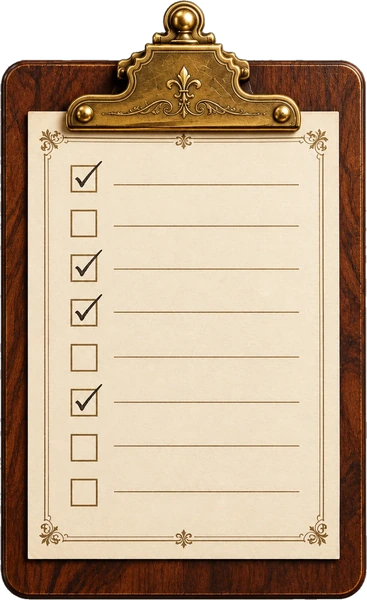
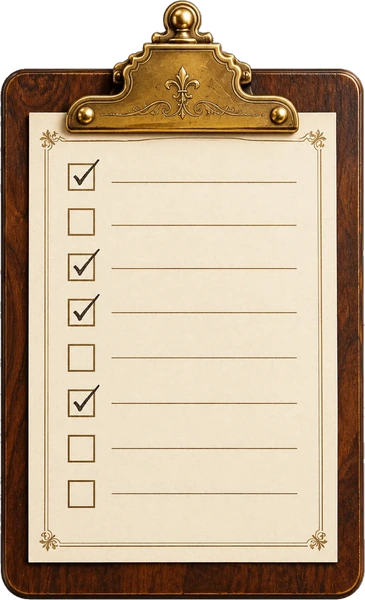
Zustimmung zu AGB und Datenschutz, Datenschutz unten in den Einstellungen, Klemmbretter im Design des jeweiligen Bildes, neuer Regenbogen-Kristall, eWolfe GbR als Betreiber (2.0.0)

diff --git a/index.html b/index.html
@@ -745,6 +745,13 @@ html.theme-biz .habit-title{ color:#ab8b54 !important; } html.theme-retreat .hab
 .shelf-comp .lib-clipboard{ right:auto; left:14%; top:auto; bottom:0; height:84%; margin:0; transform:rotate(-5deg); transform-origin:50% 100%; }
 .lib-clipboard{ background:none; border:none; padding:0; cursor:pointer; filter:drop-shadow(0 6px 8px rgba(0,0,0,0.35)); }
 .lib-clipboard svg, .lib-clipboard img{ height:100%; width:auto; display:block; }
+/* 29.10.2026: the open board is the design's own clipboard picture (border-image: clip and wood of the picture, the paper is ours) */
+.habit-modal, #tb-habit-host{ container-type:inline-size; }
+html:not(.theme-biz) .habit-board.habit-board{ border-style:solid; border-width:38cqw 8cqw 9cqw 10cqw; border-image:url(img/mw2/clipboard.webp) 168 53 45 70 fill stretch; background:none !important; padding:0 !important; box-shadow:none !important; border-radius:0 !important; filter:drop-shadow(0 14px 22px rgba(0,0,0,0.45)); }
+html.theme-biz .habit-board.habit-board{ border-style:solid; border-width:38cqw 7cqw 9.5cqw 7cqw; border-image:url(img/rl2/clipboard.webp) 140 27 35 25 fill stretch; background:none !important; padding:0 !important; box-shadow:none !important; border-radius:0 !important; filter:drop-shadow(0 14px 22px rgba(0,0,0,0.45)); }
+html.theme-retreat .habit-board.habit-board{ border-image-source:url(img/rt2/clipboard.webp); } /* the lady's clipboard: like the gentleman's, with an ornament at the bottom */
+.habit-clip{ display:none !important; }
+.habit-board .habit-paper{ border-radius:2px; box-shadow:none !important; }
 /* 29.10.2026: library – switch diary · habits on top, the other tool peeks out from behind */
 #tb-title{ display:flex; justify-content:center; }
 .tb-switch{ display:inline-flex; gap:4px; padding:3px; border-radius:999px; background:rgba(0,0,0,0.25); border:1px solid var(--ew-line); }
@@ -752,13 +759,15 @@ html.theme-biz .habit-title{ color:#ab8b54 !important; } html.theme-retreat .hab
 .tb-switch button.on{ background:var(--gold); color:#1a1405; opacity:1; }
 html.theme-retreat .tb-switch{ background:rgba(255,255,255,0.6); } html.theme-retreat .tb-switch button.on{ color:#fff; background:var(--rt-burgundy, #7A0B25); }
 html.theme-biz:not(.theme-retreat) .tb-switch button.on{ color:#0c1226; }
-.tb-stack{ position:relative; z-index:0; display:flex; margin:auto; } /* own stacking: the peeking tool lies behind the front one but stays tappable */
+.tb-stack{ position:relative; z-index:0; display:flex; margin:auto; }
+.tb-body-cover .tb-cover-wrap > .tb-stack:not(.tb-stack-habits){ margin:auto auto 0; }
+.tb-body-cover .tb-stack:not(.tb-stack-habits) .tb-cover{ width:min(100cqw, 60cqh) !important; } /* room above the book for the clipboard behind it */ /* own stacking: the peeking tool lies behind the front one but stays tappable */
 .tb-peek{ position:absolute; z-index:-1; border:none; padding:0; background:none; cursor:pointer; filter:drop-shadow(0 8px 14px rgba(0,0,0,0.4)); }
-.tb-peek-clip{ width:44%; top:-11%; right:4%; transform:rotate(8deg); transform-origin:50% 100%; }
+.tb-peek-clip{ width:80%; left:10%; top:0; transform:translateY(-27%); }
 .tb-peek-clip img, .tb-peek-clip svg{ width:100%; height:auto; display:block; }
-.tb-peek-book{ width:40%; aspect-ratio:3/4; top:-12%; left:4%; transform:rotate(-6deg); background-size:100% 100%; border-radius:8px; }
+.tb-peek-book{ width:80%; aspect-ratio:3/4; left:10%; top:0; transform:translateY(-16%); background-size:100% 100%; border-radius:8px; }
 .tb-habits-wrap{ overflow-y:auto; }
-.tb-stack-habits{ width:min(620px, 100%); margin:16% auto auto; }
+.tb-stack-habits{ width:min(620px, 100%); margin:22% auto auto; }
 #tb-habit-host{ width:100%; }
 #tb-habit-host .habit-board{ width:100%; }
 .habit-name-td{ display:flex; align-items:center; gap:2px; }
@@ -776,6 +785,11 @@ html.theme-biz:not(.theme-retreat) .habit-paper{ background:#f4ead2; }
 html.theme-retreat .habit-board{ background:linear-gradient(135deg, #e0417a, #D62C68 50%, #a81c4f); border:2px solid #c9a463; }
 html.theme-retreat .habit-clip{ background:linear-gradient(180deg, #f7e3a8, #c9a463 55%, #9c7a3f); }
 html.theme-retreat .habit-paper{ background:#fdf7ec; box-shadow:inset 0 0 0 2px #1B4D2A33; }
+#privacy-modal{ z-index:650; } /* also above the sign-in and dialogs (the links in the consent) */
+.consent-row{ display:flex; gap:10px; align-items:flex-start; margin:6px 0 10px; font-size:var(--fs-text); line-height:1.4; text-align:left; cursor:pointer; }
+.consent-row input{ width:20px; height:20px; flex:none; margin-top:2px; accent-color:var(--gold); }
+.consent-link{ display:inline !important; padding:0 !important; text-decoration:underline; }
+.consent-links{ font-size:var(--fs-text); line-height:1.5; }
 .tb-conflict{ position:absolute; left:8px; right:8px; top:8px; z-index:6; background:#fff4d6; color:#3a2a08; border:1px solid #d9a93a; border-radius:10px; padding:8px 10px; font:14px/1.4 Inter, -apple-system, sans-serif; box-shadow:0 4px 14px rgba(0,0,0,0.18); }
 .tb-conflict-btns{ display:flex; gap:8px; margin-top:6px; }
 .tb-conflict-btns .ghost-btn{ flex:1; padding:6px 8px; color:#3a2a08 !important; border-color:#b88a2a !important; background:#fff !important; font-size:13px; }
@@ -1801,10 +1815,6 @@ html.theme-retreat .lib-arrow{ background:rgba(248,241,229,0.92); color:var(--rt
       <div id="settings-sync"></div>
     </div>
     <div class="settings-section">
-      <div class="settings-head" id="t-set-privacy">Datenschutz</div>
-      <div id="settings-privacy"></div>
-    </div>
-    <div class="settings-section">
       <div class="settings-head" id="t-set-design">Design</div>
       <div class="seg design-seg" id="design-seg"></div>
       <p class="settings-note" id="t-design-hint"></p>
@@ -1828,6 +1838,10 @@ html.theme-retreat .lib-arrow{ background:rgba(248,241,229,0.92); color:var(--rt
       <div class="settings-head" id="t-set-backup">Backup</div>
       <button class="ghost-btn settings-row" id="export-btn">⬇ <span id="t-export-label">Backup herunterladen</span></button>
       <label class="ghost-btn settings-row" id="import-btn" title="Backup wiederherstellen" style="cursor:pointer;position:relative;overflow:hidden;">⬆ <span id="t-import-label">Backup wiederherstellen</span><input type="file" id="import-file-input" style="position:absolute;inset:0;width:100%;height:100%;opacity:0;cursor:pointer;"></label>
+    </div>
+    <div class="settings-section">
+      <div class="settings-head" id="t-set-privacy">Datenschutz</div>
+      <div id="settings-privacy"></div>
     </div>
   </div>
 </div>
@@ -2202,7 +2216,7 @@ html.theme-retreat .lib-arrow{ background:rgba(248,241,229,0.92); color:var(--rt
 
 <script>
 /* Bump on every published update, so it's visible at a glance whether the newest version is loaded. */
-const APP_VERSION = '1.99.9';
+const APP_VERSION = '2.0.0';
 /* Design (since 1.80.0, see the small script in <head>): in "Business" (BIZ) the gold paper icons are swapped for plain line
    icons (img/icons-rl/*.svg) wherever they appear – also in everything drawn later – so the rest of the code stays as it is. */
 // A Lady's Conservatory (1.84.0, named so since 1.86.1; key 'retreat' and RETREAT stay): light, cream and forest green; until its own pictures come it uses those of A Gentleman's Study (with the
@@ -4781,6 +4795,8 @@ Object.assign(I18N.de, { // 1.99.0
   tbConflictText:'Zweite Fassung dieser Seite (geändert am {date} auf einem anderen Gerät). Die neuere Fassung steht eine Seite davor.',
   tbConflictKeep:'Behalten', tbConflictDrop:'Löschen',
   broochMoveHint:'Tipp: Du kannst die Brosche am Kleid mit dem Finger verschieben.',
+  consentLabel:'Ich stimme den {terms} zu und habe die {privacy} gelesen.', consentNeeded:'Bitte stimme den AGB und der Datenschutzerklärung zu.',
+  consentAsk:'Bevor es weitergeht: Bitte lies die AGB und die Datenschutzerklärung und stimme zu. Das ist nur einmal nötig.', consentAgree:'Zustimmen',
   habitStreak:'{n} Tage am Stück',
   habitPraise30:'Wunderbar! 30 Tage am Stück: „{h}“ ist jetzt eine neue Gewohnheit von dir. Mach weiter so!',
   habitPraise60:'Großartig! 60 Tage ohne Unterbrechung: „{h}“ gehört jetzt fest zu deinem Leben. Darauf kannst du richtig stolz sein!',
@@ -4805,6 +4821,8 @@ Object.assign(I18N.en, {
   tbConflictText:'Second version of this page (changed on {date} on another device). The newer version is one page before.',
   tbConflictKeep:'Keep', tbConflictDrop:'Delete',
   broochMoveHint:'Tip: you can move the brooch on the dress with your finger.',
+  consentLabel:'I agree to the {terms} and have read the {privacy}.', consentNeeded:'Please agree to the terms of use and the privacy statement.',
+  consentAsk:'Before you go on: please read the terms of use and the privacy statement and agree. This is needed only once.', consentAgree:'Agree',
   habitStreak:'{n} days in a row',
   habitPraise30:'Wonderful! 30 days in a row: “{h}” is now a new habit of yours. Keep it up!',
   habitPraise60:'Great! 60 days without a break: “{h}” is now a firm part of your life. You can be really proud of that!',
@@ -6902,7 +6920,7 @@ function habitPageHtml(page, idx){
 }
 // a drawn clipboard for the library (until pictures in the style of each design arrive)
 function clipboardSvg(){
-  const board = RETREAT ? ['#e9dcc6', '#cdb48e'] : BIZ ? ['#7a4a26', '#4f2f16'] : ['#9a6a35', '#5e3b1b'];
+  const board = RETREAT ? ['#e8457f', '#a81c4f'] : BIZ ? ['#7a4a26', '#4f2f16'] : ['#9a6a35', '#5e3b1b']; // Lady: raspberry linen with gold, like her open board
   return `<svg viewBox="0 0 120 160" xmlns="http://www.w3.org/2000/svg" aria-hidden="true"><defs><linearGradient id="cbB" x1="0" y1="0" x2="1" y2="1"><stop offset="0" stop-color="${board[0]}"/><stop offset="1" stop-color="${board[1]}"/></linearGradient><linearGradient id="cbC" x1="0" y1="0" x2="0" y2="1"><stop offset="0" stop-color="#f1dc9a"/><stop offset=".55" stop-color="#c9a463"/><stop offset="1" stop-color="#9c7a3f"/></linearGradient></defs>`
     + `<rect x="6" y="10" width="108" height="146" rx="10" fill="url(#cbB)"/><rect x="16" y="24" width="88" height="122" rx="3" fill="#fbf6ea"/>`
     + [0, 1, 2, 3, 4].map(i=>`<rect x="24" y="${42 + i * 19}" width="11" height="11" rx="2.5" fill="#fff" stroke="#b7a684" stroke-width="1.4"/>${i < 3 ? `<path d="M26 ${48 + i * 19}l3 3 6-7" fill="none" stroke="#2f8f62" stroke-width="2.4" stroke-linecap="round" stroke-linejoin="round"/>` : ''}<line x1="42" y1="${48 + i * 19}" x2="${86 - (i % 2) * 14}" y2="${48 + i * 19}" stroke="#c8bba0" stroke-width="2.2" stroke-linecap="round"/>`).join('')
@@ -7441,7 +7459,7 @@ function tbRenderLibrary(){
   // 28.10.2026 (wish of the user): the clipboard (habit tracker) leans in the middle compartment of the book part – or the next free one below
   const clipRow = (()=>{ const mid = Math.floor(SHELF_ROWS.length / 2); for(let i = mid; i < SHELF_ROWS.length; i++) if(!(narrowRows[i] || []).length) return i; return -1; })();
   // pictures of the user for A Mystery World and A Gentleman's Study (28.10.2026); A Lady's Conservatory keeps the drawn one until hers comes
-  const clipImg = RETREAT ? '' : BIZ ? 'rl2/clipboard' : 'mw2/clipboard';
+  const clipImg = RETREAT ? 'rt2/clipboard' : BIZ ? 'rl2/clipboard' : 'mw2/clipboard';
   const clipHtml = `<button class="lib-clipboard" onclick="habitOpen()" title="${escapeHtml(d.habitTitle)}" aria-label="${escapeHtml(d.habitTitle)}">${clipImg ? `<img src="img/${clipImg}.webp" alt="">` : clipboardSvg()}</button>`;
   const narrowHtml = NAR ? `<div class="shelf-img shelf-narrow" style="background-image:url(img/${NS.img}.webp);aspect-ratio:${NS.aspect.toFixed(4)}">${SHELF_ROWS.map(([y0, y1], i)=>
       `<div class="shelf-comp shelf-comp-books" style="left:${NS.x[0]}%;width:${NS.x[1] - NS.x[0]}%;top:${y0}%;height:${y1 - y0}%">${(narrowRows[i] || []).map(bookHtml).join('')}${i === clipRow ? clipHtml : ''}</div>`).join('')}${NS.fronts ? `<div class="shelf-fronts" aria-hidden="true" style="background-image:url(img/${NS.fronts}.webp)"></div>` : ''}${NS.plant ? `<img class="shelf-plant" src="img/${NS.plant.img}.webp" alt="" style="width:${NS.plant.w}%;left:${NS.plant.over - NS.plant.w}%">` : ''}</div>` : '';
@@ -7547,7 +7565,7 @@ function trophyDefs(){
     n=>L(n + '-mal Stille Meditation – die Stille klingt in dir nach.', 'Silent meditation ' + n + ' times – the stillness resonates in you.'));
   // days in a row: a crystal that grows
   const streakMax = Object.keys(ev.streakAt).length ? Math.max(...Object.keys(ev.streakAt).map(Number)) : 0;
-  [3, 5, 7, 14, 30, 100].forEach((n, i)=>out.push({ id:'streak' + n, group:'streak', stage:i, kind:'img', img:'crystal-n-' + Math.min(i + 1, 5), scale:0.55 + i * 0.08, aspect:[0.527, 0.648, 0.663, 0.622, 0.647, 0.647][i], need:1, needShow:n,
+  [3, 5, 7, 14, 30, 100].forEach((n, i)=>out.push({ id:'streak' + n, group:'streak', stage:i, kind:'img', img:['crystal-n-1', 'crystal-n-2b', 'crystal-n-2', 'crystal-n-3', 'crystal-n-4', 'crystal-n-5'][i], scale:0.55 + i * 0.08, aspect:[0.527, 0.613, 0.648, 0.663, 0.622, 0.647][i], // 29.10.2026: the new one with two points is stage 2, the full druse comes last need:1, needShow:n,
     list:ev.streakAt[n] ? [ev.streakAt[n]] : [], have:()=>Math.min(n, streakMax),
     title:L(n + ' Tage in Folge', n + ' days in a row'), desc:L('Du hast an ' + n + ' Tagen hintereinander geübt.', 'You practised on ' + n + ' days in a row.') }));
   // 29.10.2026: habits – a red crystal that grows when one habit is ticked 30, 60 and 90 days in a row (the two smaller pictures
@@ -7988,7 +8006,7 @@ function tbRenderCover(){
 // the cover can be designed while a diary is new (until it is opened for the first time); afterwards only in the library
 /* 29.10.2026 (wish of the user): the diary page is now called library; on top a switch diary · habits. Closed, the other tool
    always peeks out a little from behind: the clipboard behind the book cover, the book behind the clipboard. */
-function clipPeekHtml(){ const im = RETREAT ? '' : BIZ ? 'rl2/clipboard' : 'mw2/clipboard'; return im ? `<img src="img/${im}.webp" alt="">` : clipboardSvg(); }
+function clipPeekHtml(){ const im = RETREAT ? 'rt2/clipboard' : BIZ ? 'rl2/clipboard' : 'mw2/clipboard'; return im ? `<img src="img/${im}.webp" alt="">` : clipboardSvg(); }
 function tbRenderHabits(){
   const d = t(), diary = tbEnsureYear(tbYear);
   return `<div class="tb-cover-wrap tb-habits-wrap"><div class="tb-stack tb-stack-habits">
@@ -9179,7 +9197,7 @@ de:`<p class="privacy-draft">Entwurf – vor dem öffentlichen Start rechtlich p
 <li>Die Server stehen in Frankfurt am Main (EU).</li>
 </ul>
 <h3>1. Verantwortlich</h3>
-<p>[Name des Betreibers]<br>[Anschrift]<br>E-Mail: [E-Mail-Adresse]</p>
+<p>eWolfe GbR<br>[Anschrift]<br>E-Mail: [E-Mail-Adresse]</p>
 <h3>2. Welche Daten wir verarbeiten</h3>
 <ul>
 <li><strong>Konto:</strong> deine E-Mail-Adresse und dein Passwort. Das Passwort wird beim Anmeldedienst nur als sogenannter Hash gespeichert, nie im Klartext. Dazu kommen technische Angaben zur Anmeldung (Zeitpunkte, Anmelde-Token).</li>
@@ -9221,7 +9239,7 @@ en:`<p class="privacy-draft">Draft – to be checked by a lawyer before the publ
 <li>The servers are in Frankfurt am Main (EU).</li>
 </ul>
 <h3>1. Controller</h3>
-<p>[Name of the operator]<br>[Address]<br>Email: [email address]</p>
+<p>eWolfe GbR<br>[Address]<br>Email: [email address]</p>
 <h3>2. What data we process</h3>
 <ul>
 <li><strong>Account:</strong> your email address and your password. The sign-in service stores the password only as a so-called hash, never in plain text. In addition, technical sign-in details (times, sign-in tokens).</li>
@@ -9260,22 +9278,22 @@ en:`<p class="privacy-draft">Draft – to be checked by a lawyer before the publ
 const IMPRINT = {
 de:`<p class="privacy-draft">Entwurf – Angaben in [eckigen Klammern] fehlen noch.</p>
 <h3>Angaben gemäß § 5 DDG</h3>
-<p>[Name des Betreibers]<br>[Straße und Hausnummer]<br>[PLZ und Ort]<br>Deutschland</p>
+<p>eWolfe GbR<br>vertreten durch die Gesellschafter: [Vor- und Nachnamen]<br>[Straße und Hausnummer]<br>[PLZ und Ort]<br>Deutschland</p>
 <h3>Kontakt</h3>
 <p>E-Mail: [E-Mail-Adresse folgt]</p>
 <h3>Verantwortlich für den Inhalt</h3>
-<p>[Name des Betreibers], Anschrift wie oben.</p>
+<p>eWolfe GbR, Anschrift wie oben.</p>
 <h3>Hinweis</h3>
 <p>eWolfe ist eine App zur persönlichen Reflexion und Selbstorganisation. Sie ersetzt keine ärztliche, psychotherapeutische, rechtliche oder finanzielle Beratung.</p>
 <h3>Verbraucherstreitbeilegung</h3>
 <p>Wir sind nicht verpflichtet und nicht bereit, an Streitbeilegungsverfahren vor einer Verbraucherschlichtungsstelle teilzunehmen.</p>`,
 en:`<p class="privacy-draft">Draft – details in [square brackets] are still missing.</p>
 <h3>Information pursuant to Section 5 DDG (German Digital Services Act)</h3>
-<p>[Name of the operator]<br>[Street and number]<br>[Postcode and town]<br>Germany</p>
+<p>eWolfe GbR<br>represented by the partners: [first and last names]<br>[Street and number]<br>[Postcode and town]<br>Germany</p>
 <h3>Contact</h3>
 <p>Email: [email address to follow]</p>
 <h3>Responsible for the content</h3>
-<p>[Name of the operator], address as above.</p>
+<p>eWolfe GbR, address as above.</p>
 <h3>Note</h3>
 <p>eWolfe is an app for personal reflection and self-organisation. It does not replace medical, psychotherapeutic, legal or financial advice.</p>
 <h3>Consumer dispute resolution</h3>
@@ -9285,7 +9303,7 @@ const TERMS = {
 de:`<p class="privacy-draft">Entwurf – vor dem öffentlichen Start rechtlich prüfen lassen.</p>
 <p>Stand: Oktober 2026</p>
 <h3>1. Geltungsbereich</h3>
-<p>Diese Nutzungsbedingungen gelten für die Nutzung der App eWolfe von [Name des Betreibers] („wir“). Mit dem Anlegen eines Kontos stimmst du ihnen zu.</p>
+<p>Diese Nutzungsbedingungen gelten für die Nutzung der App eWolfe von eWolfe GbR („wir“). Mit dem Anlegen eines Kontos stimmst du ihnen zu.</p>
 <h3>2. Was eWolfe ist – und was nicht</h3>
 <p>eWolfe hilft dir, über dein Leben nachzudenken, Ziele zu setzen, Tagebuch zu schreiben und Achtsamkeitsübungen zu machen. eWolfe ist kein Medizinprodukt und keine Therapie. Die Inhalte (z. B. Atemübungen, Meditationen, Impulse, Fragen) sind allgemeine Anregungen und ersetzen keine ärztliche, psychotherapeutische, rechtliche oder finanzielle Beratung.</p>
 <p>Wenn es dir körperlich oder seelisch nicht gut geht, wende dich bitte an eine Ärztin, einen Arzt oder eine Psychotherapeutin bzw. einen Psychotherapeuten. In einer akuten Krise erreichst du in Deutschland die Telefonseelsorge rund um die Uhr kostenlos unter 0800 111 0 111 oder 0800 111 0 222, im Notfall den Notruf 112.</p>
@@ -9540,6 +9558,7 @@ async function syncNow(){
     await uiNotice(firstPairing === 'merged' ? t().syncDoneMerged : firstPairing === 'pulled' ? t().syncDonePulled : t().syncDoneUploaded);
   }
   if(syncConflictNote){ syncConflictNote = 0; uiNotice(t().syncConflictNote); }
+  consentCheck();
   if(syncAgain){ syncAgain = false; setTimeout(syncNow, 500); }
 }
 function syncOnLocalChange(){
@@ -9773,6 +9792,7 @@ function renderSyncModal(){
         <input class="small-input" id="sync-email" type="email" autocomplete="username" placeholder="${d.syncEmail}" style="width:100%;margin-bottom:8px;" value="${escapeHtml(up ? '' : syncLastEmail())}">
         <input class="small-input" id="sync-pass" type="password" autocomplete="${up ? 'new-password' : 'current-password'}" placeholder="${d.syncPassword}" style="width:100%;margin-bottom:6px;">
         ${up ? `<ul class="pw-rules" id="pw-rules">${pwRulesHtml('')}</ul>` : ''}
+        ${up ? `<label class="consent-row"><input type="checkbox" id="sync-consent"><span>${consentLabelHtml()}</span></label>` : ''}
         <div id="sync-form-msg" class="sync-msg"></div>
         <button class="primary-btn" style="width:100%;" id="sync-main-btn">${up ? d.syncSignUp : d.syncSignIn}</button>
         ${up ? '' : `<button class="gate-link" id="sync-forgot-btn" style="padding-bottom:0;">${d.gateForgot}</button>`}
@@ -9801,6 +9821,7 @@ async function syncDoAuth(mode){
   setMsg('');
   if(!email || !pass){ setMsg(t().eFill, 'err'); return; }
   if(mode === 'up' && !pwOk(pass)){ setMsg(t().eWeak, 'err'); return; } // 1.95.0: the password rules
+  if(mode === 'up'){ const c = document.getElementById('sync-consent'); if(!c || !c.checked){ setMsg(t().consentNeeded, 'err'); return; } consentSave(); } // 29.10.2026
   const btns = [document.getElementById('sync-main-btn'), document.getElementById('sync-switch-btn')];
   btns.forEach(b=>b.disabled = true);
   try{
@@ -9905,6 +9926,26 @@ function renderSettingsPrivacy(){
   if(del) del.onclick = async ()=>{ if(!(await uiDialog(d.pkRemoveAsk, { confirm:true, okText:d.pkRemove }))) return; e2e.pk = []; e2e.kv = Date.now(); e2eSave(); syncNow(); renderSettingsPrivacy(); };
 }
 function privacyOpen(){ legalOpen('privacy'); }
+/* 29.10.2026: terms and privacy must be accepted once at the start – a tick when the account is created; whoever signs in on a
+   device that has not seen it yet (e.g. accounts from before) is asked once. Kept per device (ewolfe_consent_v1, date and version). */
+const CONSENT_KEY = 'ewolfe_consent_v1', CONSENT_VERSION = '2026-10';
+function consentGiven(){ try{ const c = JSON.parse(localStorage.getItem(CONSENT_KEY) || 'null'); return !!(c && c.v === CONSENT_VERSION); }catch(e){ return false; } }
+function consentSave(){ try{ localStorage.setItem(CONSENT_KEY, JSON.stringify({ v:CONSENT_VERSION, t:Date.now() })); }catch(e){} }
+function consentLabelHtml(){
+  const d = t();
+  return d.consentLabel.replace('{terms}', `<button type="button" class="gate-link consent-link" onclick="legalOpen('terms')">${d.legal_terms}</button>`).replace('{privacy}', `<button type="button" class="gate-link consent-link" onclick="legalOpen('privacy')">${d.privacyLink}</button>`);
+}
+let consentAsking = false;
+async function consentCheck(){
+  if(consentAsking || consentGiven() || !sbSession) return;
+  consentAsking = true;
+  try{
+    const d = t();
+    const ok = await uiDialog(d.consentAsk, { confirm:true, okText:d.consentAgree, cancelText:d.syncSignOut, html:`<div class="consent-links">${consentLabelHtml()}</div>` });
+    if(ok){ consentSave(); }
+    else{ await sbSignOut(); syncSet('off'); syncAuthMode = 'in'; syncShowGate(); }
+  }finally{ consentAsking = false; }
+}
 // 1.99.0: privacy, imprint and terms in the same window (from the bottom of the start page and from the settings)
 function legalOpen(kind){
   const d = t(), en = state.settings.lang === 'en' ? 'en' : 'de';

diff --git a/CLAUDE.md b/CLAUDE.md
@@ -127,7 +127,7 @@ Der Nutzer ist kein Entwickler. Erkläre Schritte einfach und auf Deutsch.
 - Veröffentlicht über **GitHub Pages** aus diesem Repository (Branch `main`, Ordner `/`):
   https://k9vk58y99f-max.github.io/k9vk58y99f-max.github.io-ewolfe-app-/
 - Ein Commit + Push auf `main` ist die Veröffentlichung; nach 1–2 Minuten ist es live.
-- Bei jeder Änderung `APP_VERSION` erhöhen (aktuell `1.99.9`) und `APP_BUILD` anpassen.
+- Bei jeder Änderung `APP_VERSION` erhöhen (aktuell `2.0.0`) und `APP_BUILD` anpassen.
   Die Version steht unten in der App.
 
 ## Neu seit 1.55.0 (iPad, Wischen, Tagebuch, Sticker, Impulskarten)
@@ -692,6 +692,12 @@ Vor jedem Push: Syntax prüfen und die betroffenen Abläufe testen. Daten des Nu
   Zwei kleinere rote Kristalle kommen noch (dann je Stufe eigenes Bild). In AGS/LC noch Platzhalter (kein eigenes Bild).
 - 1.99.9: Mystery-Kristalle neu vor Grau: Übungen `crystal-n-mint|blue|purple|pink|silver|gold`, Tage in Folge Regenbogen `crystal-n-1…5` (Stufe 6 = 5, größer;
   Bodenspiegelung per `cutbase.py` abgeschnitten), Gewohnheiten `crystal-red-a`, `-b`, `crystal-red`. Originale: „Eingang 24.10.2026“ IMG_1171–1190.
+- **2.0.0 (29.10.2026):** Zustimmung zu AGB + Datenschutz: Häkchen bei „Konto erstellen“ (Pflicht), wer sich auf einem Gerät ohne Zustimmung anmeldet,
+  wird einmal gefragt (`consentCheck` nach jedem Sync, `ewolfe_consent_v1`, `CONSENT_VERSION`; Ablehnen = abmelden). Einstellungen: Datenschutz ganz unten.
+  Rechtliches-Fenster `#privacy-modal` z-index 650 (über Anmeldung und Dialogen). Betreiber „eWolfe GbR“ eingetragen (Gesellschafter-Namen, Anschrift,
+  E-Mail fehlen noch). Offenes Klemmbrett = Bild des Designs als `border-image` (`mw2|rl2|rt2/clipboard`, Lady = Herren-Brett mit Ornament unten in der Mitte),
+  Papier liegt darüber. Hervorlugendes Werkzeug gerade, 80 % breit, oben (`.tb-peek-*`). Regenbogen-Kristall mit zwei Spitzen `crystal-n-2b` als Stufe 2,
+  die anderen rücken auf, volle Druse = 100 Tage.
 - **Noch offen (Datenschutz):** Speicher-Erinnerung (80 %/90 %), verschlüsseltes Backup + monatliche Erinnerung, IndexedDB statt localStorage, Fotos einzeln
   im Supabase-Speicher, Konto in der App löschen; Platzhalter der Datenschutzerklärung füllen und rechtlich prüfen lassen; AVV und SMTP bei Supabase.
 
